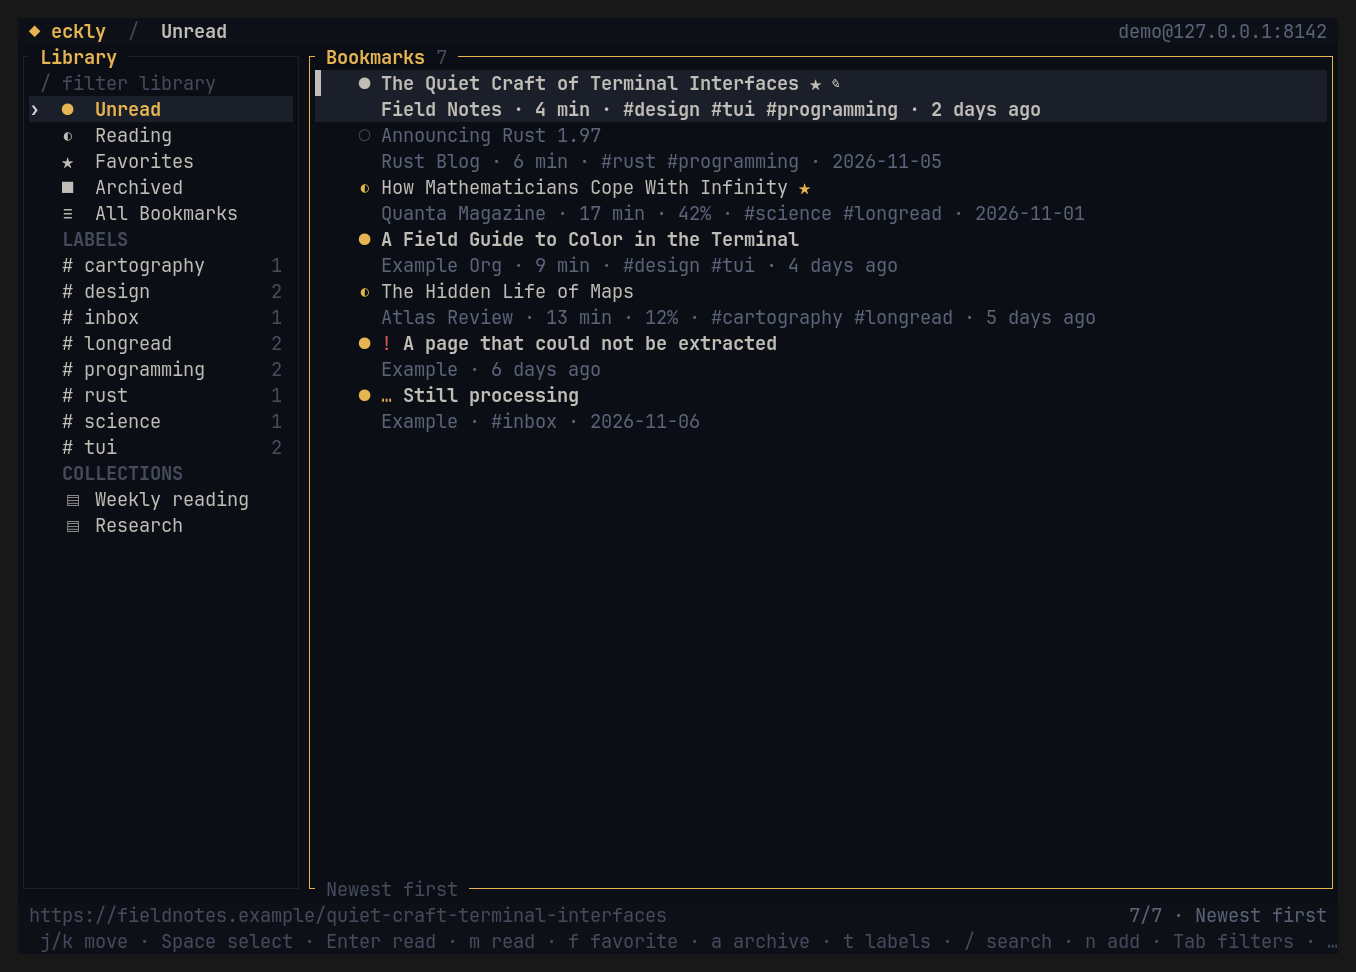
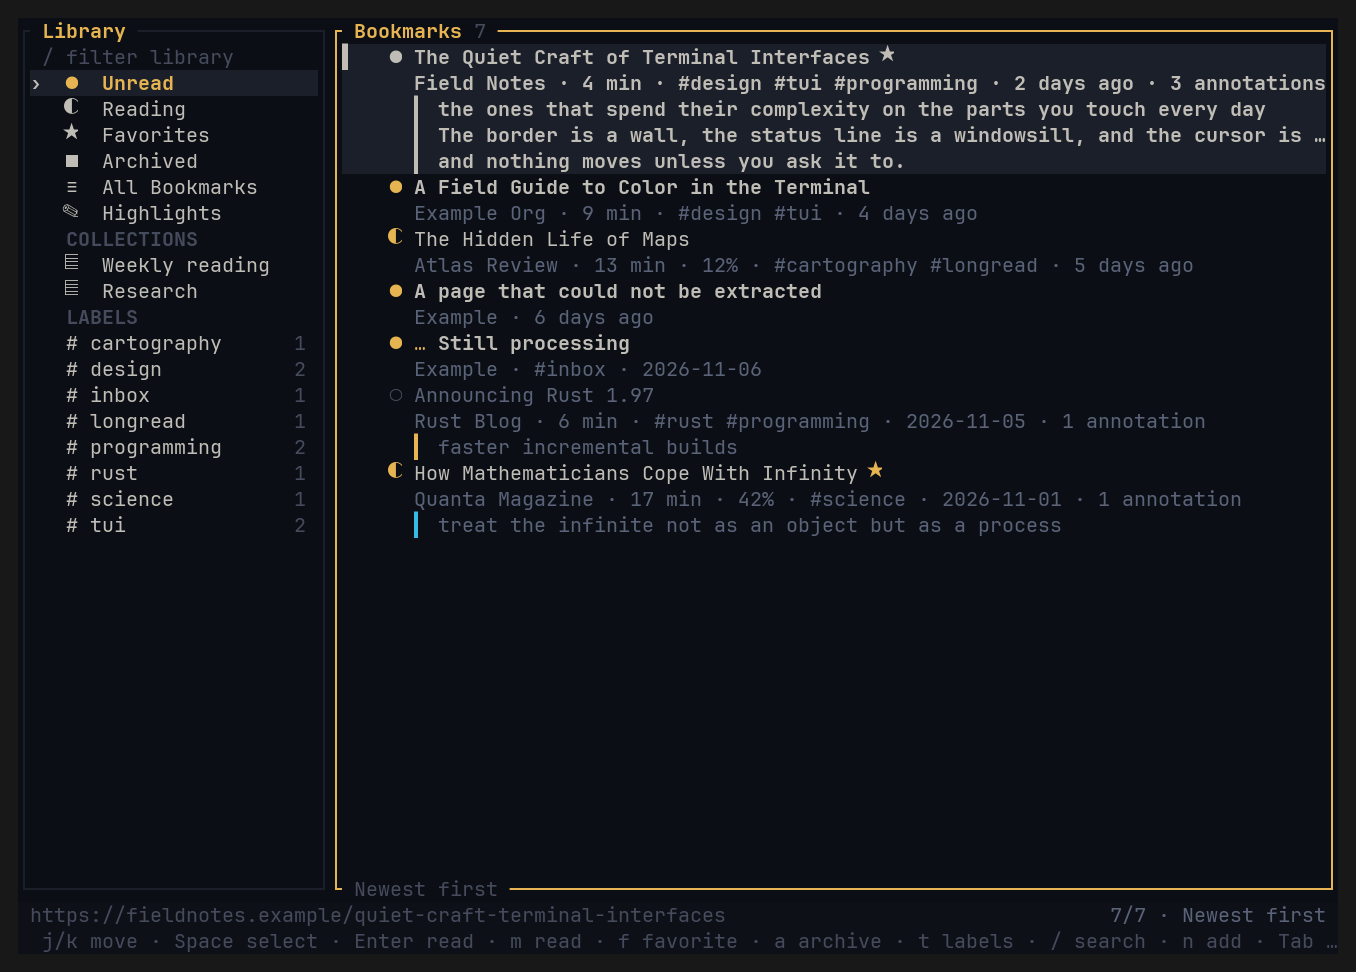
docs: refresh the screenshots
- The list screenshot shows the Highlights entry, annotations under bookmarks and the current sidebar order.
- The reader screenshot shows colored highlights with an inline note, an image and the current footer keys.
- Add a Highlights view screenshot: highlights grouped by bookmark, titles shown once and the text wrapped.
- Mention the Highlights view and its screenshot in the README.

diff --git a/README.md b/README.md
@@ -13,14 +13,19 @@ headings, lists, quotes, code blocks and inline images:
 
 ![eckly reading view using the Ayu Dark theme](screenshots/reader.png)
 
+The Highlights view groups every highlight by bookmark and follows the article
+order; press `Enter` to jump to one:
+
+![eckly highlights view using the Ayu Dark theme](screenshots/highlights.png)
+
 ## Features
 
 - **Browse** the inbox (all non-archived bookmarks, including finished ones),
   reading progress, favorites and archives, or filter by label or collection.
 - **Search** your library with Readeck's full-text search, or search within the
   current article with highlighted matches.
-- **Annotate** paragraphs with colored highlights and notes, and browse or edit
-  them from the reader.
+- **Annotate** paragraphs with colored highlights and notes. The Library pane
+  lists every highlight by bookmark, and the reader browses or edits them.
 - **Read** extracted articles in a comfortable, scrollable reader. Plain text is
   reflowed to the terminal width; headings, lists, quotes, code and images are
   rendered inline. Images use truecolor half blocks and are fetched from
